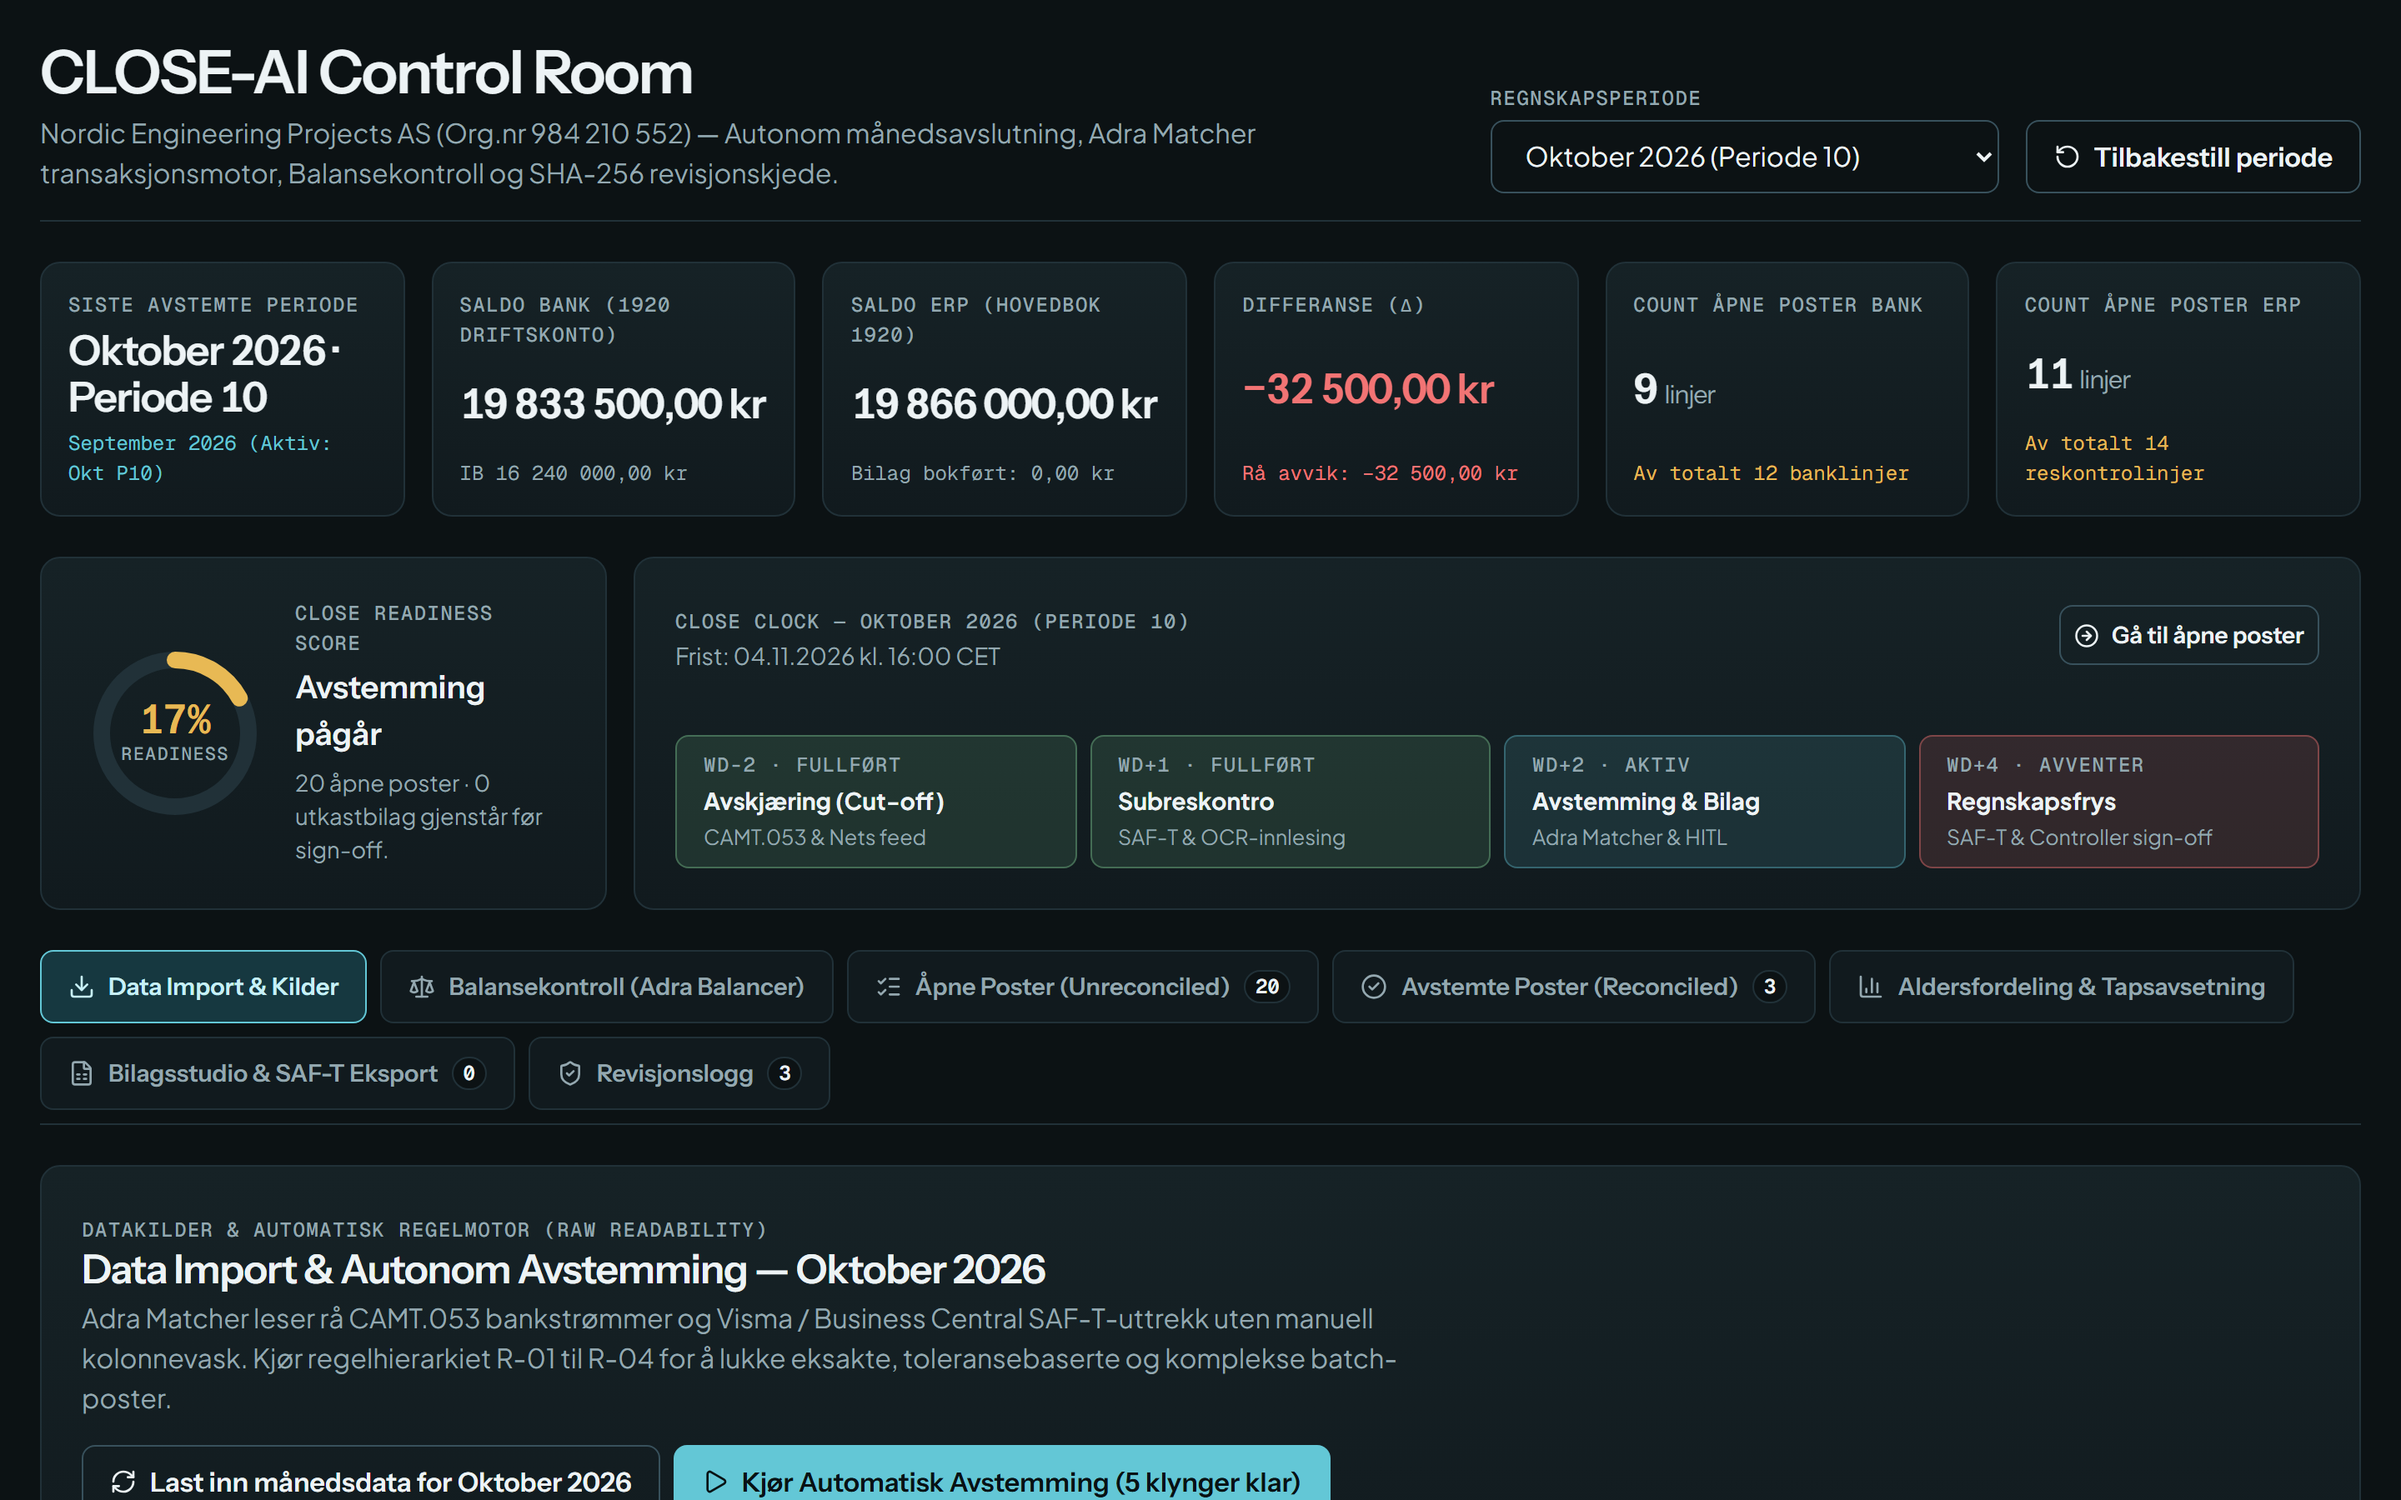
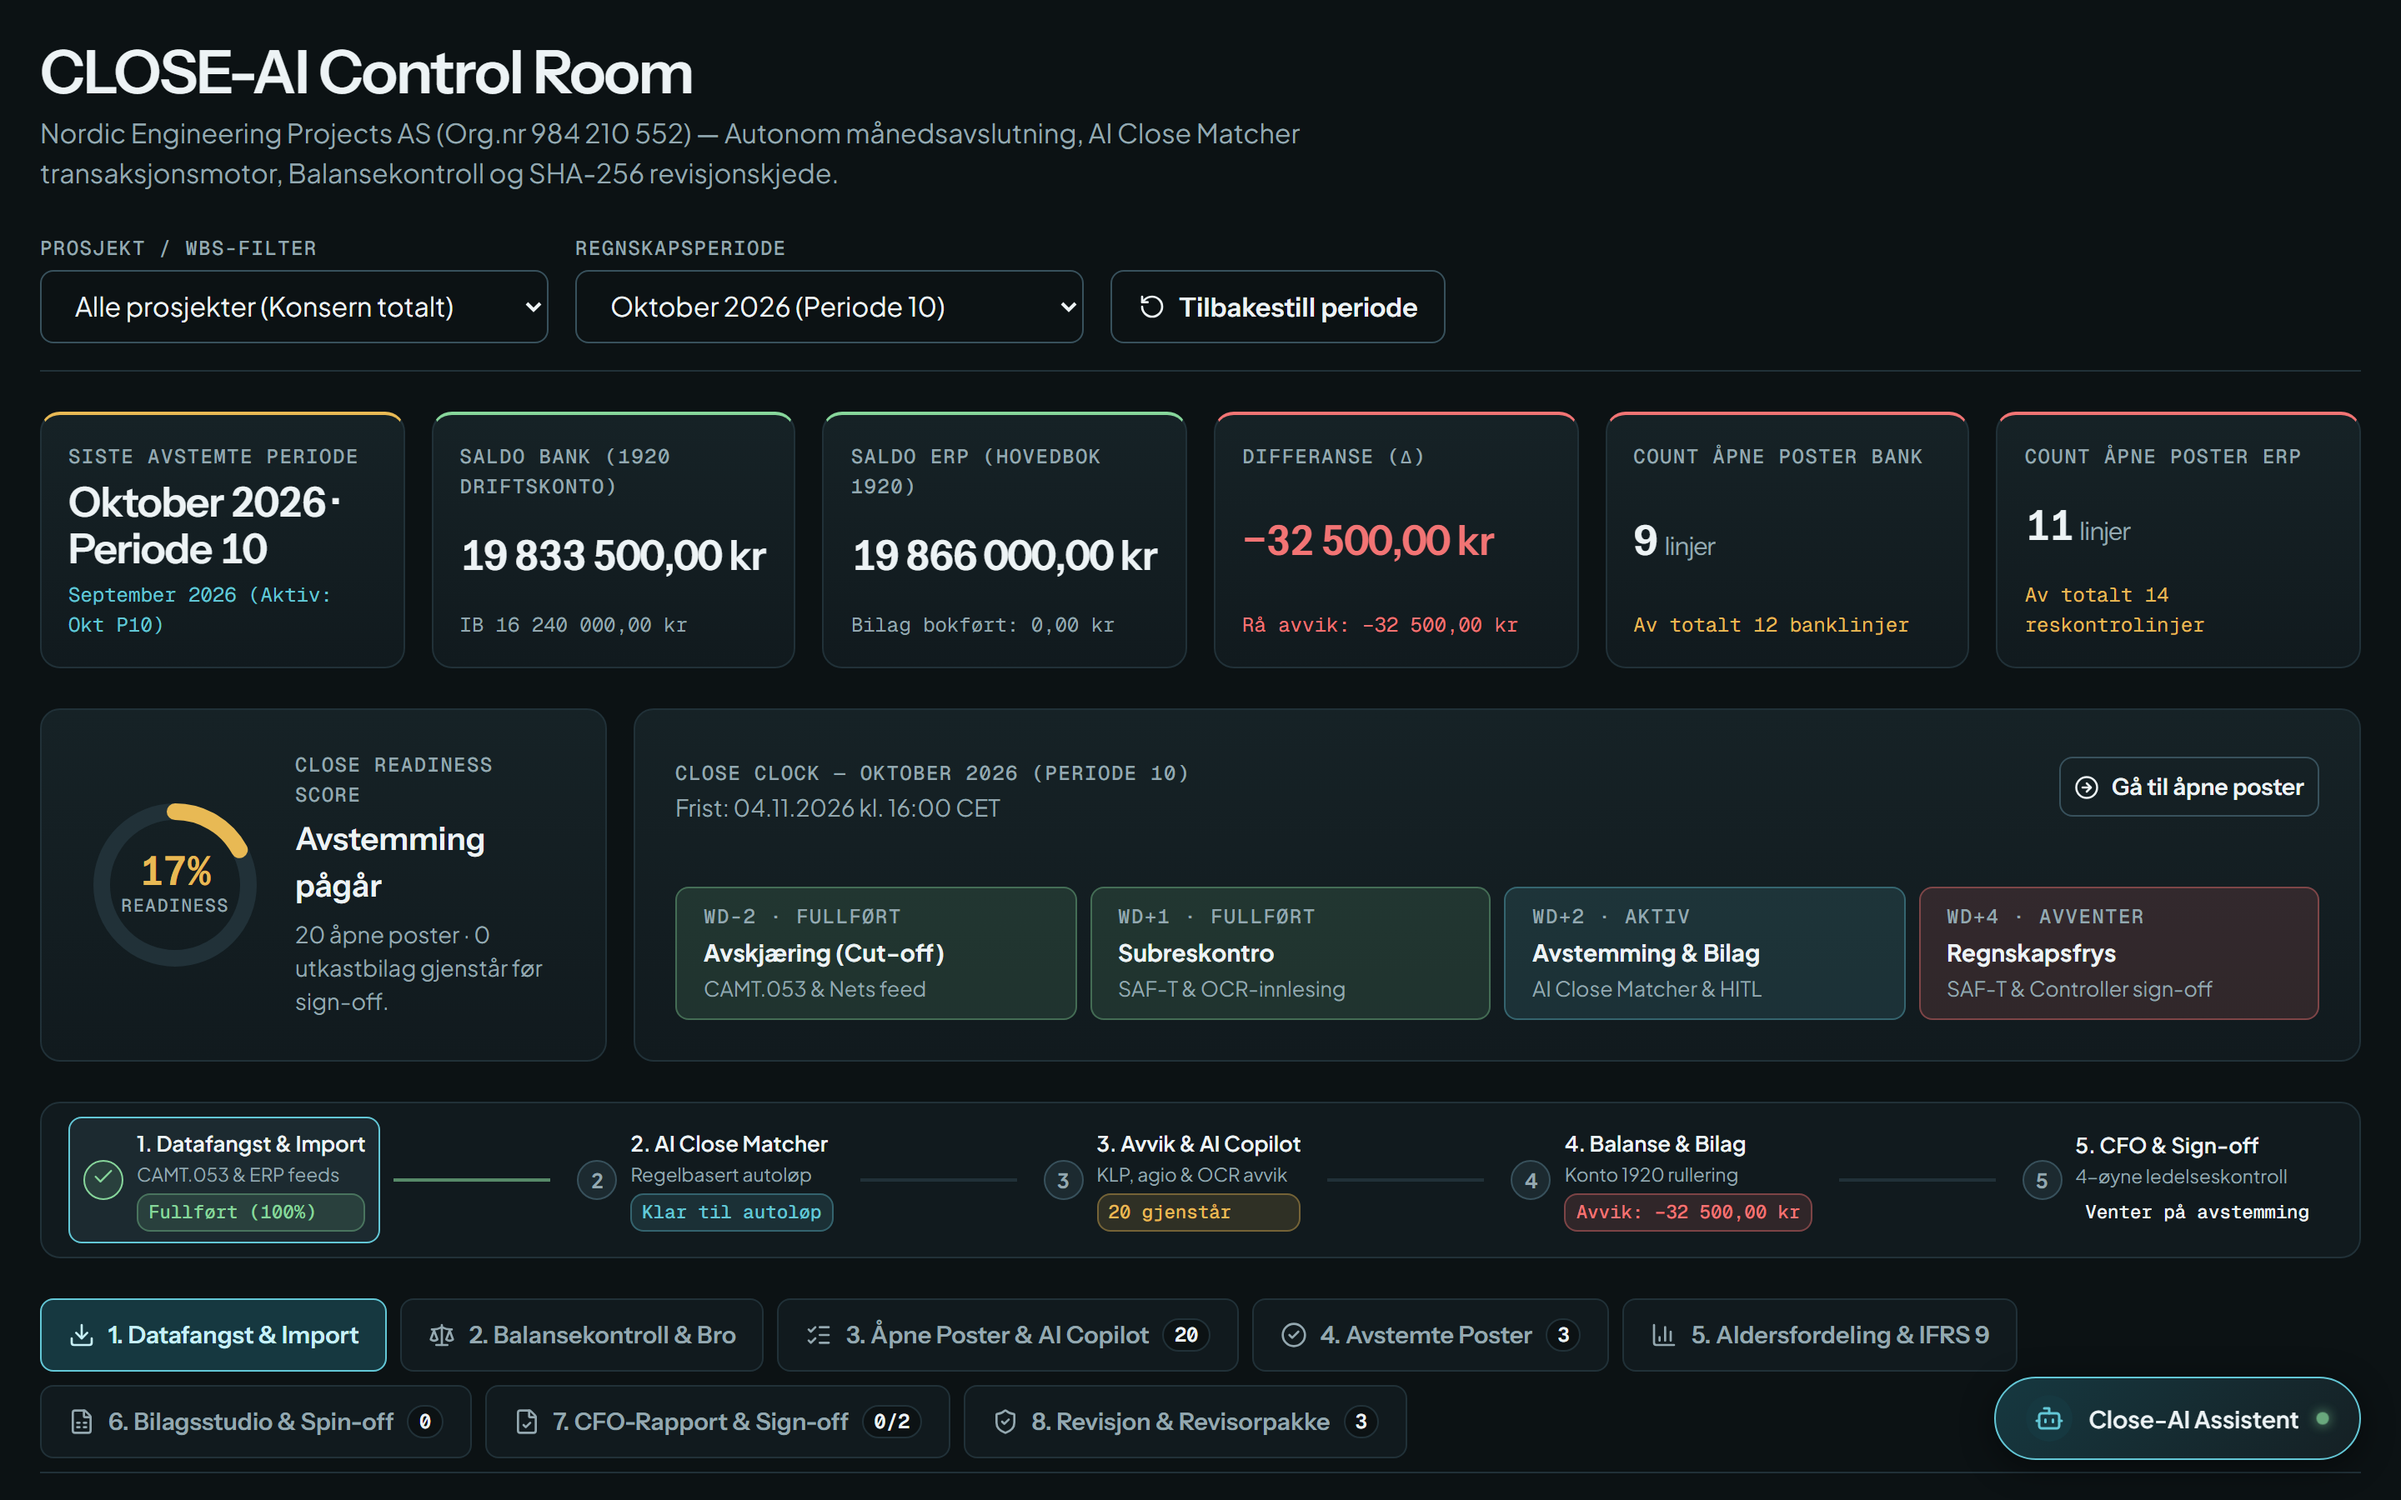
upd

diff --git a/index.html b/index.html
@@ -1830,13 +1830,13 @@
             <a href="https://frank-ellingsen.github.io/AI-Closing/" target="_blank" rel="noopener"
               title="Klikk for å åpne CLOSE-AI Control Room — Nordic Engineering Projects AS">
               <div class="media-live-badge">
-                <span class="live-dot"></span> LIVE WEB APP &bull; ADRA BALANCER &bull; AUTONOMOUS AI CLOSE &bull; SHA-256 AUDIT CHAIN &bull; SAF-T / ISA 240
+                <span class="live-dot"></span> LIVE WEB APP &bull; AI CLOSE BALANCER &bull; DUCKDB LAKEHOUSE &bull; SHA-256 AUDIT CHAIN &bull; SAF-T / ISA 240
               </div>
               <img src="images/close_ai_control_room.png"
-                alt="CLOSE-AI Control Room — Nordic Engineering Projects AS | Autonomous Financial Close, Adra Balancer, IFRS 9 ECL &amp; SHA-256 Audit Chain"
+                alt="CLOSE-AI Control Room — Nordic Engineering Projects AS | Autonomous Financial Close, AI Close Balancer, DuckDB Lakehouse, IFRS 9 ECL &amp; SHA-256 Audit Chain"
                 loading="lazy" />
               <div class="media-caption-overlay">
-                <span>⚖ CLOSE-AI Control Room &bull; Nordic Engineering Projects AS (Periode 10 / Okt 2026)</span>
+                <span>⚖ CLOSE-AI Control Room &bull; Nordic Engineering Projects AS (8-Tab Cockpit &bull; WBS Filter &bull; Periode 10)</span>
                 <span style="color: #38bdf8; font-weight: 600">Open Live Control Room ↗</span>
               </div>
             </a>
@@ -1860,7 +1860,7 @@
                   TOP FEATURED FLAGSHIP
                 </span>
                 &bull; <a href="https://frank-ellingsen.github.io/AI-Closing/" target="_blank" rel="noopener"
-                  style="color: inherit; text-decoration: none">Autonomous Financial Close, Complex Reconciliation, Adra Balancer &amp; SHA-256 Governance (v3.0)</a>
+                  style="color: inherit; text-decoration: none">Autonomous Financial Close, AI Close Balancer, DuckDB Medallion Lakehouse &amp; SHA-256 Governance (v3.0)</a>
               </div>
               <h3 class="project-title">
                 <a href="https://frank-ellingsen.github.io/AI-Closing/" target="_blank" rel="noopener"
@@ -1870,21 +1870,22 @@
               </h3>
 
               <div class="tag-list">
-                <span class="tag-badge primary">Adra Balancer (IB + Bevegelser = UB)</span>
+                <span class="tag-badge primary">AI Close Balancer (IB + Bevegelser = UB)</span>
                 <span class="tag-badge primary">Rule Ladder R-01 &ndash; R-AI</span>
                 <span class="tag-badge primary">Two-Way Match &amp; Unmatch</span>
-                <span class="tag-badge primary">AIMatchSuggester Copilot</span>
-                <span class="tag-badge primary">IFRS 9 ECL &amp; Aging</span>
+                <span class="tag-badge primary">AIMatchSuggester &amp; Close-AI Assistent</span>
+                <span class="tag-badge primary">DuckDB Lakehouse &amp; Isolation Forest ML</span>
+                <span class="tag-badge">IFRS 9 ECL &amp; CFO 4-Eye Sign-off</span>
                 <span class="tag-badge">SHA-256 Audit Chain (ISA 240/315)</span>
                 <span class="tag-badge">SAF-T XML / Business Central / Visma.net</span>
               </div>
 
               <p class="project-description">
-                <strong>CLOSE-AI (v3.0)</strong> is a production-grade autonomous financial close and balance control room built for project-heavy engineering and maritime organizations (exemplified by <strong>Nordic Engineering Projects AS</strong>). It combines deterministic <strong>Adra Balancer</strong> reconciliation (&Delta; = 0.00 NOK), combinatorial 1:M subset-sum matching, a bidirectional match/unmatch lifecycle, forensic <strong>AIMatchSuggester</strong> journal proposals, <strong>IFRS 9 ECL</strong> aging analysis, and an immutable <strong>SHA-256</strong> audit chain.
+                <strong>CLOSE-AI (v3.0)</strong> is a production-grade autonomous financial close and balance control room built for project-heavy engineering and maritime organizations (exemplified by <strong>Nordic Engineering Projects AS</strong>). Featuring an 8-tab web cockpit with WBS/project filtering, a 5-stage close pipeline, deterministic <strong>AI Close Balancer</strong> reconciliation (&Delta; = 0.00 NOK), combinatorial 1:M subset-sum matching, a <strong>DuckDB</strong> medallion lakehouse &amp; <strong>Isolation Forest</strong> anomaly detector, forensic <strong>AIMatchSuggester</strong> journal proposals, <strong>IFRS 9 ECL</strong> aging, and an immutable <strong>SHA-256</strong> audit chain.
               </p>
 
               <details class="project-details" open>
-                <summary>README Summary &bull; Balance Control Architecture, Rule Ladder &amp; Cryptographic Governance</summary>
+                <summary>README Summary &bull; v3.0 Architecture, 5-Stage Close Pipeline &amp; Cryptographic Governance</summary>
                 <!-- Live README Summary Widget (Tufte High Data-Ink) -->
                 <div class="preview-summary-box">
                   <div class="preview-header">
@@ -1897,7 +1898,7 @@
                       </svg>
                       README Summary &bull; CLOSE-AI Control Room (v3.0) — Nordic Engineering Projects AS
                     </span>
-                    <span class="preview-status-pill">Oktober 2026 (Periode 10) &bull; CAMT.053 &amp; SAF-T &bull; ISA 240 / 315 / 500</span>
+                    <span class="preview-status-pill">Oktober 2026 (Periode 10) &bull; 8-Tab Web &amp; Streamlit Cockpit &bull; ISA 240 / 315 / 500</span>
                   </div>
 
                   <!-- Executive KPI / Metric Summary Row -->
@@ -1915,8 +1916,8 @@
                       <span class="val" style="color: #dc2626">&minus;32 500 kr <small>(20 open items)</small></span>
                     </div>
                     <div class="preview-kpi-cell">
-                      <span class="label">Rule Engine</span>
-                      <span class="val" style="color: #15803d">R-01 &ndash; R-AI <small>(1:1, 1:M &amp; FX)</small></span>
+                      <span class="label">Rule &amp; ML Engine</span>
+                      <span class="val" style="color: #15803d">R-01 &ndash; R-AI <small>(DuckDB + Isolation Forest)</small></span>
                     </div>
                     <div class="preview-kpi-cell">
                       <span class="label">Audit Governance</span>
@@ -1926,10 +1927,10 @@
 
                   <!-- Modules List -->
                   <div class="preview-modules-list" style="margin-top: 0.85rem">
-                    <span class="preview-module-tag"><strong>01 Multi-Period Ingestion:</strong> Native switching across Aug, Sep &amp; Oct 2026 with CAMT.053 XML &amp; SAF-T CSV ingestion.</span>
-                    <span class="preview-module-tag"><strong>02 Adra Balancer Proof:</strong> Mathematical proof of IB + Movements = UB isolating timing diffs &amp; posting errors to &Delta; = 0.00 NOK.</span>
-                    <span class="preview-module-tag"><strong>03 Two-Way Lifecycle &amp; AI Copilot:</strong> Manual multi-line matching, instant unmatch rollback, and zero-delta forensic voucher proposals.</span>
-                    <span class="preview-module-tag"><strong>04 IFRS 9 ECL &amp; SAF-T Export:</strong> 0&ndash;90+ day aging stress tests, paired accruals (Bilag A/B), and SHA-256 linear audit trail.</span>
+                    <span class="preview-module-tag"><strong>01 Multi-Period &amp; WBS Ingestion:</strong> Aug/Sep/Oct 2026 switching, WBS/project filter, CAMT.053 XML &amp; SAF-T CSV feeds, plus DuckDB Bronze/Silver/Gold lakehouse.</span>
+                    <span class="preview-module-tag"><strong>02 AI Close Balancer &amp; Rule Ladder:</strong> Mathematical proof of IB + Movements = UB (&Delta; = 0.00 NOK) with R-01 to R-AI exact, 1:M batch, FX &amp; fuzzy matching.</span>
+                    <span class="preview-module-tag"><strong>03 Two-Way Lifecycle &amp; AI Copilot:</strong> Manual multi-line matching, instant unmatch rollback, Isolation Forest anomaly detection, and zero-delta forensic voucher proposals.</span>
+                    <span class="preview-module-tag"><strong>04 IFRS 9 ECL, CFO Sign-off &amp; Audit Pack:</strong> 0&ndash;90+ day aging stress tests, paired accruals (Bilag A/B), 4-eye CFO sign-off, SAF-T/BC/Visma export &amp; SHA-256 chain.</span>
                   </div>
                 </div>
               </details>
